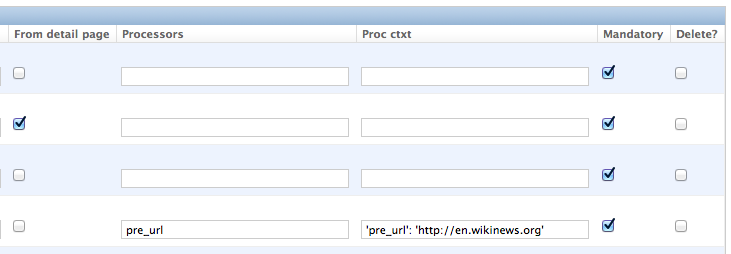
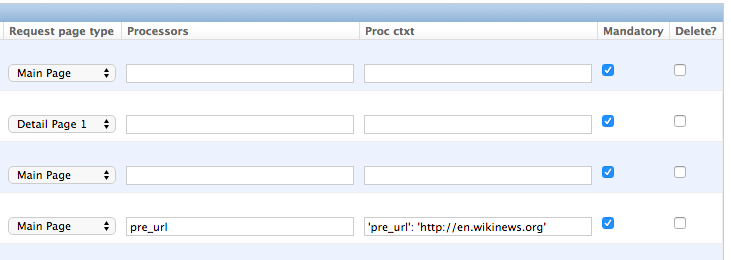
Updated documentation

diff --git a/docs/getting_started.rst b/docs/getting_started.rst
@@ -134,7 +134,7 @@ is scraping items, the **general workflow of the scraping process** is as follow
 * If provided the DDS scraper is then scraping the url from this item summary block leading to a detail page of the
   item providing more information to scrape
 * All the real item attributes (like a title, a description, a date or an image) are then scraped either from 
-  within the item summary block on the overview page or from the detail page of the item. This can be defined later
+  within the item summary block on the overview page or from a detail page of the item. This can be defined later
   when creating the scraper itself.
 
 To define which of the scraped obj attributes are just simple standard attributes to be scraped, which one
@@ -192,9 +192,10 @@ The main part of defining a scraper in DDS is to create several scraper elements
 the data for the specific :ref:`scraped_obj_attr` by following the main concepts of Scrapy_ for scraping
 data from websites. In the fields named 'x_path' and 'reg_exp' an XPath and (optionally) a regular expression
 is defined to extract the data from the page, following Scrapy's concept of 
-`XPathSelectors <http://readthedocs.org/docs/scrapy/en/latest/topics/selectors.html>`_. The 'from_detail_page'
-check box tells the scraper, if the data for the object attibute for the scraper element should be extracted
-from the overview page or the detail page of the specific item. The fields 'processors' and 'processors_ctxt' are
+`XPathSelectors <http://readthedocs.org/docs/scrapy/en/latest/topics/selectors.html>`_. The 'request_page_type'
+select box tells the scraper, if the data for the object attibute for the scraper element should be extracted
+from the overview page or a detail page of the specific item. For every chosen page type here you have to define a
+corresponding request page type in the admin form above. The fields 'processors' and 'processors_ctxt' are
 used to define output processors for your scraped data like they are defined in Scrapy's
 `Item Loader section <http://readthedocs.org/docs/scrapy/en/latest/topics/loaders.html>`_.
 You can use these processors e.g. to add a string to your scraped data or to bring a scraped date in a
@@ -261,13 +262,25 @@ the complete url.
 .. image:: images/screenshot_django-admin_scraper_1.png
 .. image:: images/screenshot_django-admin_scraper_2.png
 
-This completes our scraper. The form you have filled out should look similar to the screenshot above 
+This completes the xpath definitions for our scraper. The form you have filled out should look similar to the screenshot above 
 (which is broken down to two rows due to space issues).
 
 .. note::
    You can also **scrape** attributes of your object **from outside the base element** by using the ``..`` notation
    in your XPath expressions to get to the parent nodes!
 
+Adding corresponding request page types
+---------------------------------------
+
+For all page types you used for your ``ScraperElemes`` you have to define corresponding ``RequestPageType`` objects
+in the ``Scraper`` admin form. There has to be exactly one main page and 0-25 detail page type objects.
+
+.. image:: images/screenshot_django-admin_request_page_type_example.png
+
+Within the ``RequestPageType`` object you can define request settings like the content type (``HTML``, ``XML``,...),
+the request method (``GET`` or ``POST``) and others for the specific page type. With this it is e.g. possible to 
+scrape HTML content from all the main pages and ``JSON`` content from the followed detail pages. For more information
+on this have a look at the :ref:`advanced_request_options` section.
 
 Create the domain entity reference object (NewsWebsite) for our open news example
 ---------------------------------------------------------------------------------

diff --git a/docs/advanced_topics.rst b/docs/advanced_topics.rst
@@ -397,7 +397,8 @@ Advanced Request Options
 
 Since ``DDS v.0.7+`` you have more options to fine-tune your scraping requests by e.g. providing additional values for
 ``cookies`` or ``HTTP headers``. These values are internally passed to Scrapy's `Request object <http://doc.scrapy.org/en/latest/topics/request-response.html#request-objects>`_. You can find the extended request options in the 
-``Request options`` tab in the ``Scraper form`` of your ``Django project admin``.
+``Request options`` tab in the ``Scraper form`` of your ``Django project admin``. For the different page types 
+like the (paginated) main pages and the detail pages following scraped urls you can define different request options.
 
 .. note::
    Parameters for the different options are passed as ``JSON`` dicts. Make sure to use ``double quotes``
